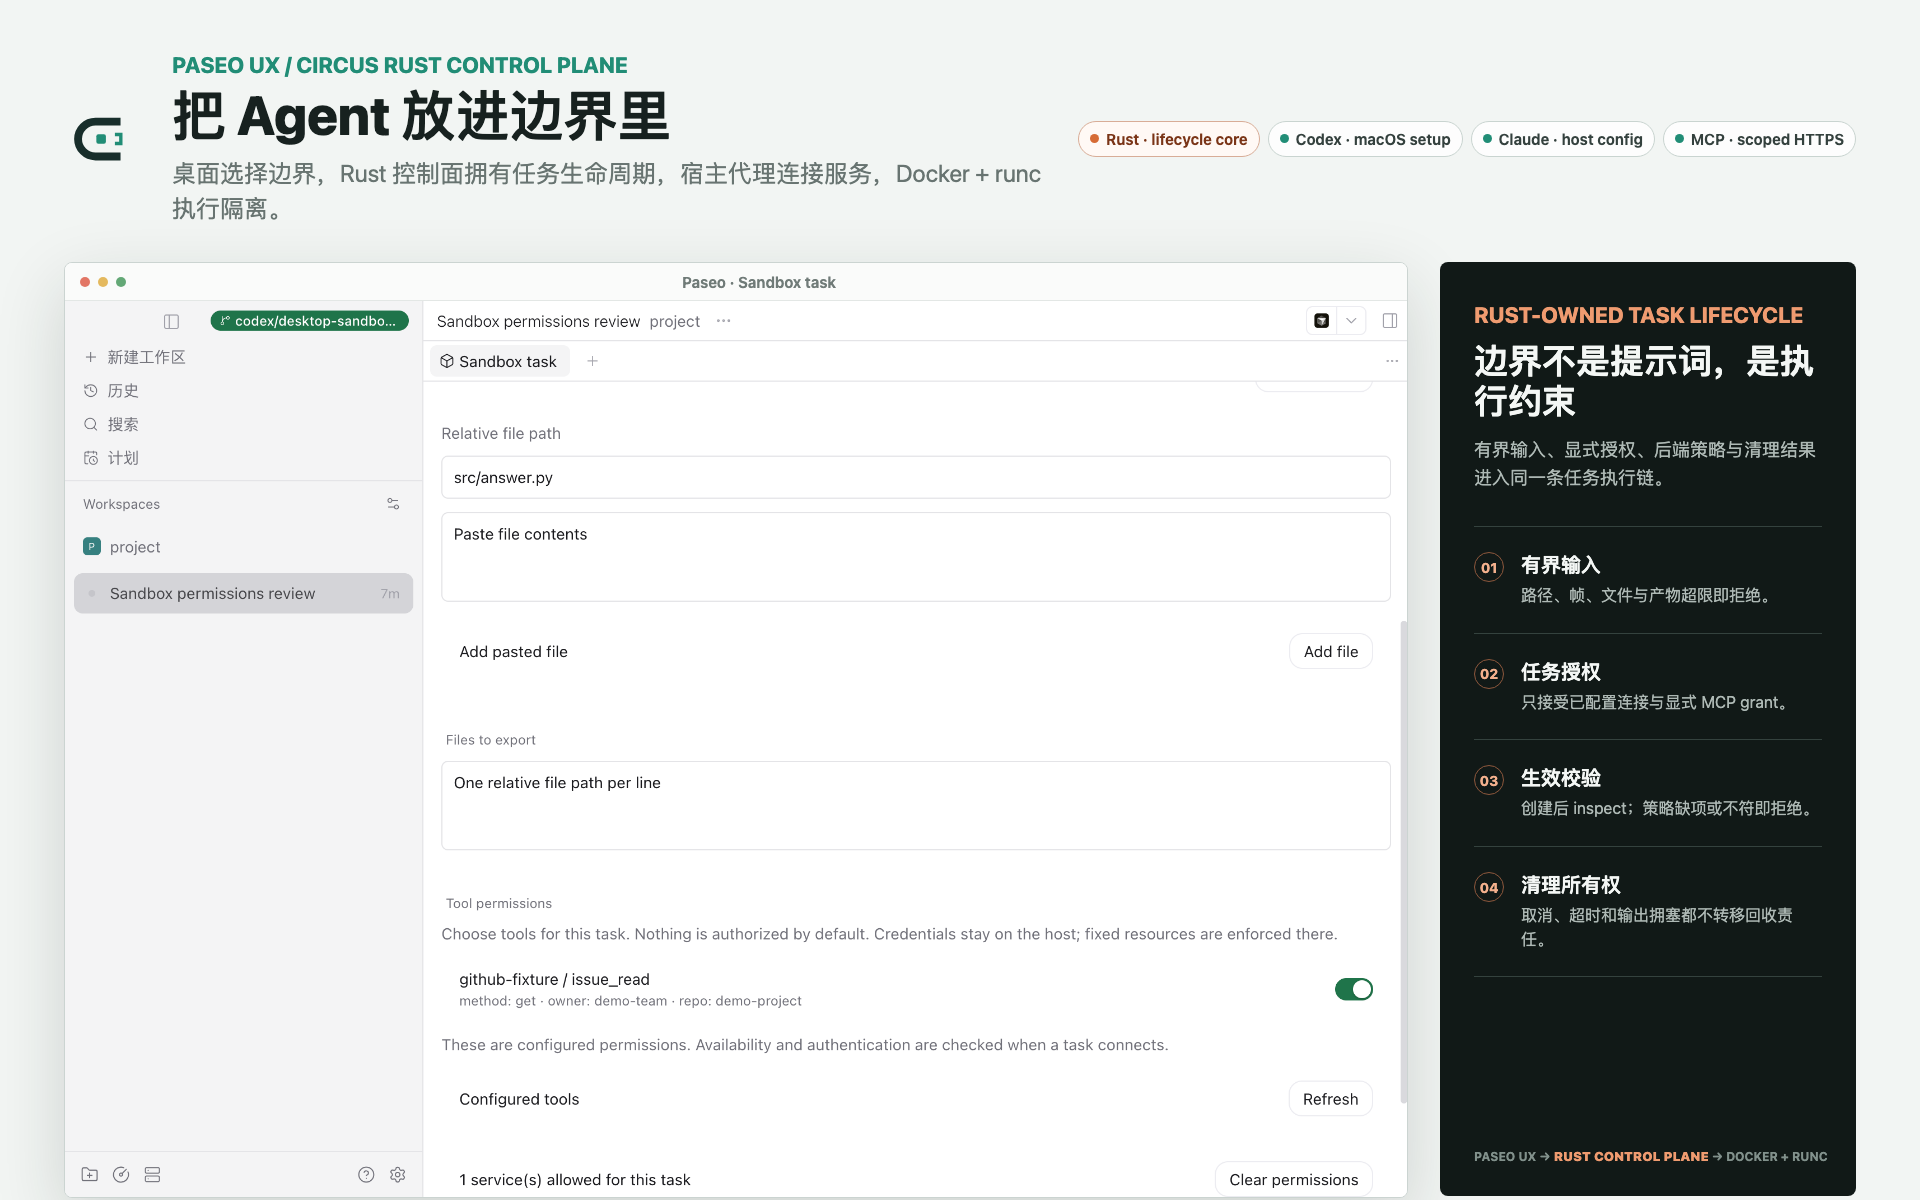
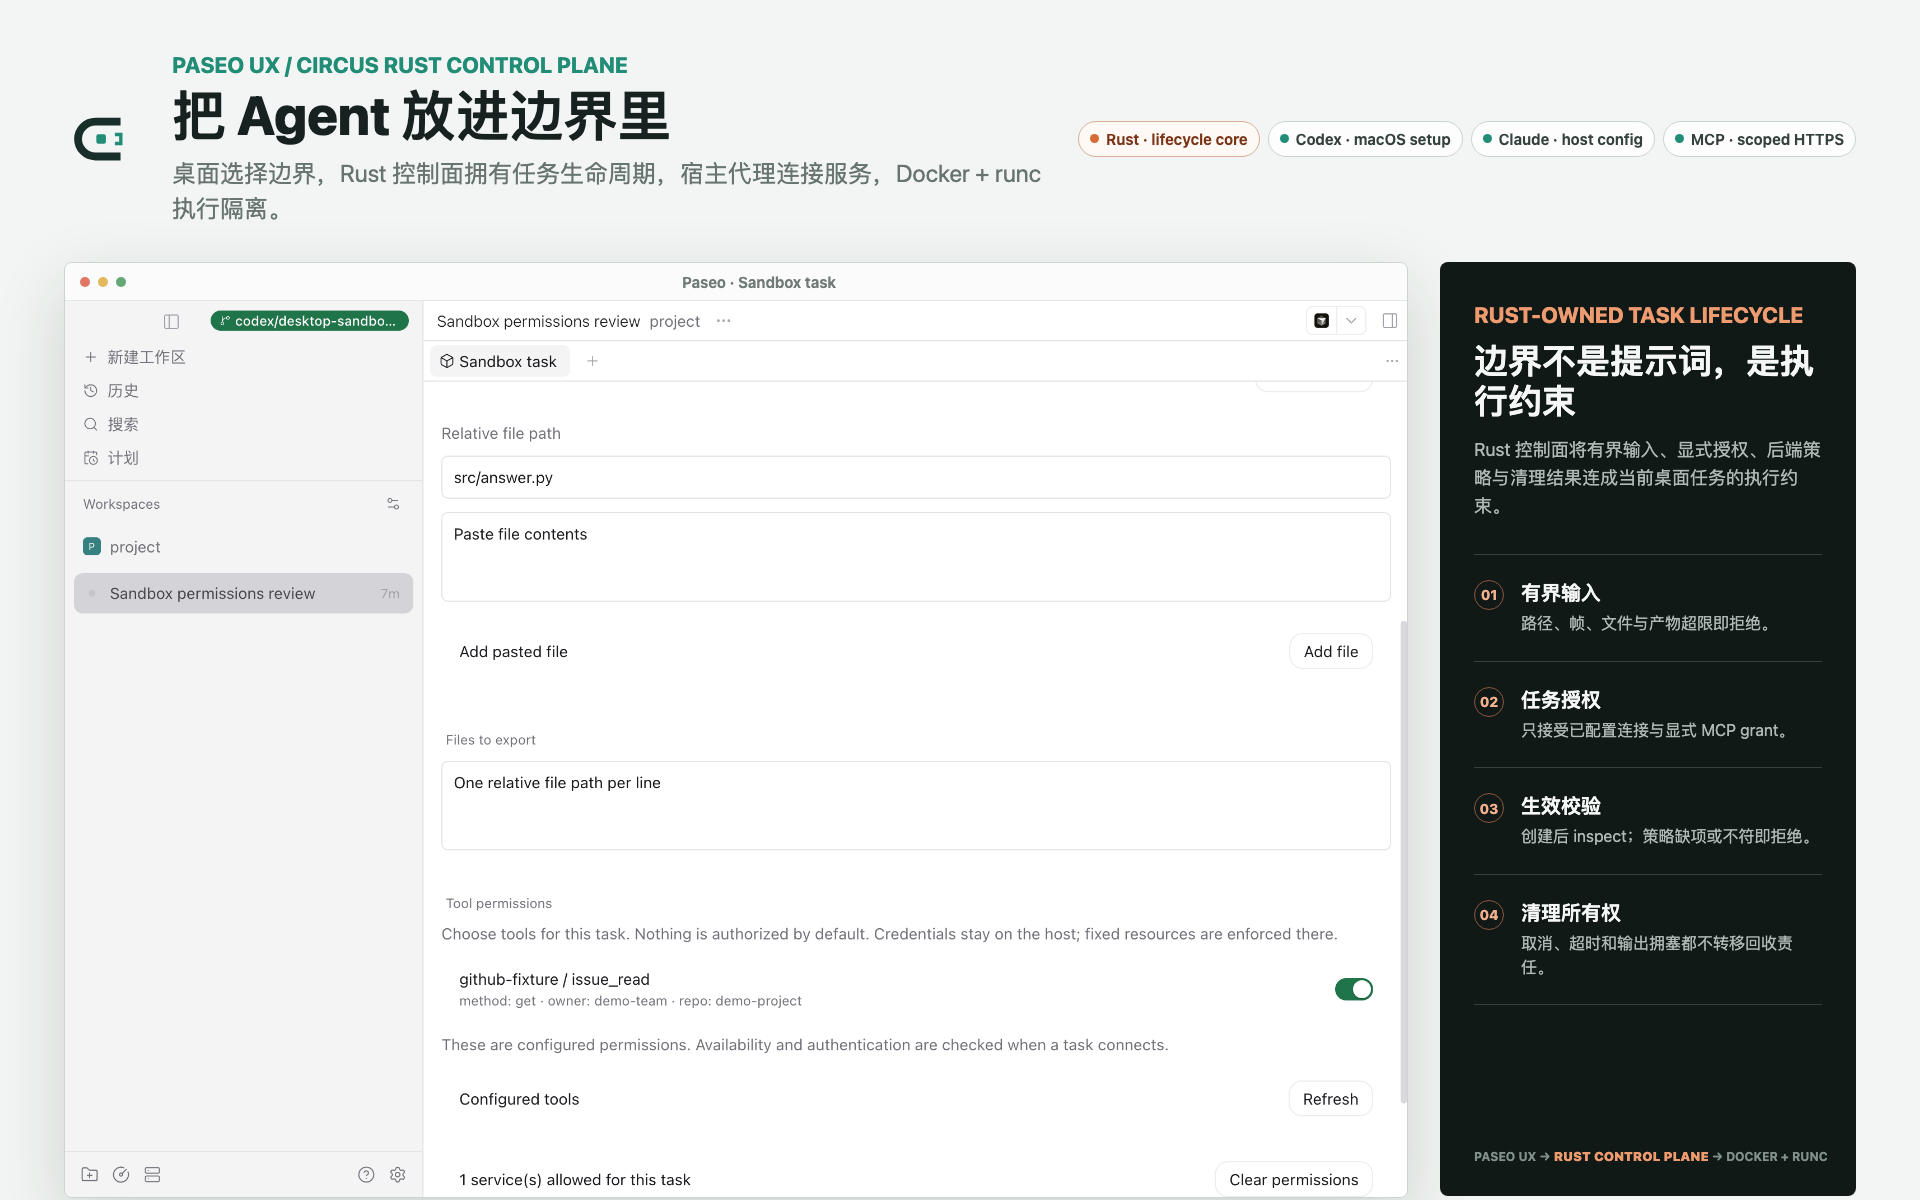
docs(readme): 同步独立进程代理边界

Changed region(s): [[0.75, 0.4625, 0.9375, 0.8017], [0.75, 0.37, 0.9375, 0.4317]]

diff --git a/docs/assets/architecture.html b/docs/assets/architecture.html
@@ -273,14 +273,16 @@
             Circus Rust control plane and agent isolation architecture
           </title>
           <desc id="desc">
-            A Paseo client connects to a Node daemon and a three-crate Rust
-            control plane: the bounded stdio bridge, AgentRunner and
-            circus-sandbox lifecycle. Rust validates task policy, inspects the
-            effective backend policy and owns cleanup while Docker and runc
-            enforce the current agent isolation. Model and authorized MCP
-            requests travel over process standard streams to the host credential
-            broker, which injects host-held credentials and enforces
-            destinations, tools and fixed resource parameters.
+            The current Paseo sandbox-provider task path connects a Node daemon
+            to the Rust control plane through the bounded stdio bridge,
+            AgentRunner and circus-sandbox lifecycle. Rust validates task
+            policy, inspects the effective backend policy and owns cleanup while
+            Docker and runc enforce the current agent isolation. Model and
+            authorized MCP requests travel over process standard streams to the
+            host credential broker, which injects host-held credentials and
+            enforces destinations, tools and fixed resource parameters. The
+            separate circus-sandbox-exec provider proxy reuses circus-sandbox
+            and is outside this path.
           </desc>
           <defs>
             <pattern
@@ -468,7 +470,7 @@
             font-size="12"
             font-weight="700"
           >
-            RUST CONTROL PLANE · 3 FIRST-PARTY CRATES
+            RUST CONTROL PLANE · DESKTOP TASK PATH
           </text>
           <text
             x="880"

diff --git a/docs/assets/readme-showcase.html b/docs/assets/readme-showcase.html
@@ -578,7 +578,10 @@
       <aside class="boundary-panel">
         <div class="eyebrow">Rust-owned task lifecycle</div>
         <h2>边界不是提示词，是执行约束</h2>
-        <p>有界输入、显式授权、后端策略与清理结果进入同一条任务执行链。</p>
+        <p>
+          Rust
+          控制面将有界输入、显式授权、后端策略与清理结果连成当前桌面任务的执行约束。
+        </p>
         <div class="boundary-list">
           <div class="boundary-item">
             <span class="boundary-number">01</span>
